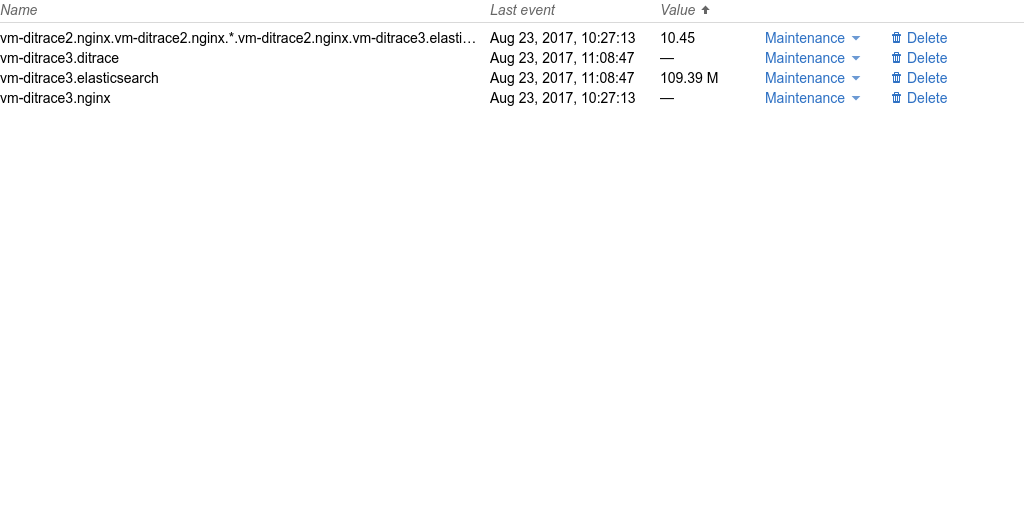
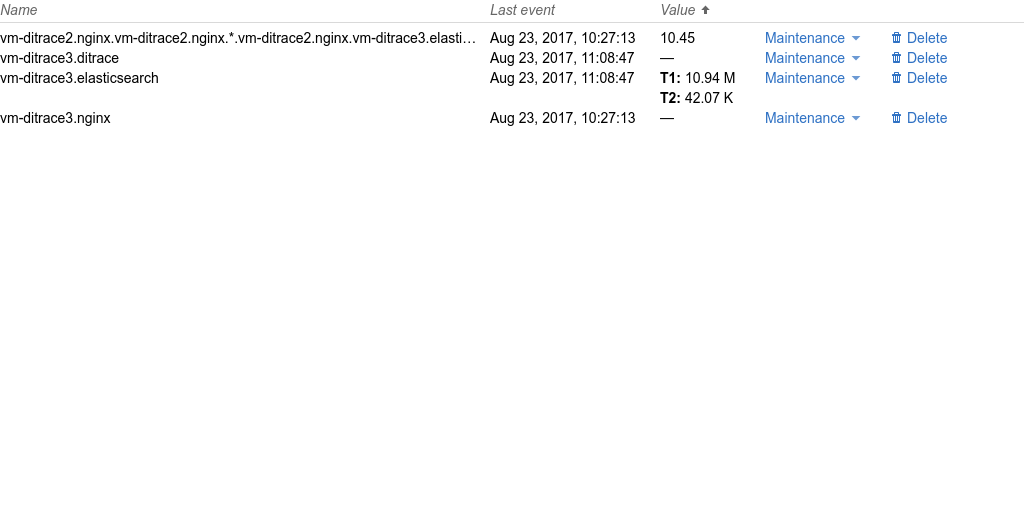
update desktop metric list item story & snapshots

diff --git a/src/Stories/MetricList.stories.tsx b/src/Stories/MetricList.stories.tsx
@@ -37,6 +37,10 @@ const items: MetricItemList = {
             setup_user: null,
             setup_time: null,
         },
+        values: {
+            T1: 10938918,
+            T2: 42069,
+        },
     },
     "vm-ditrace3.nginx": {
         event_timestamp: 1503484033,
